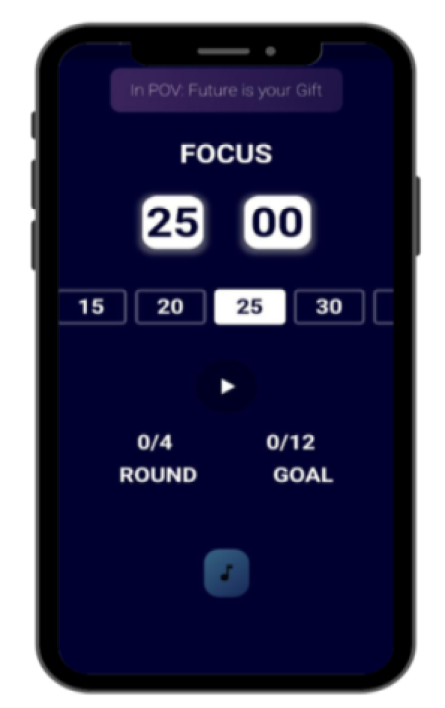
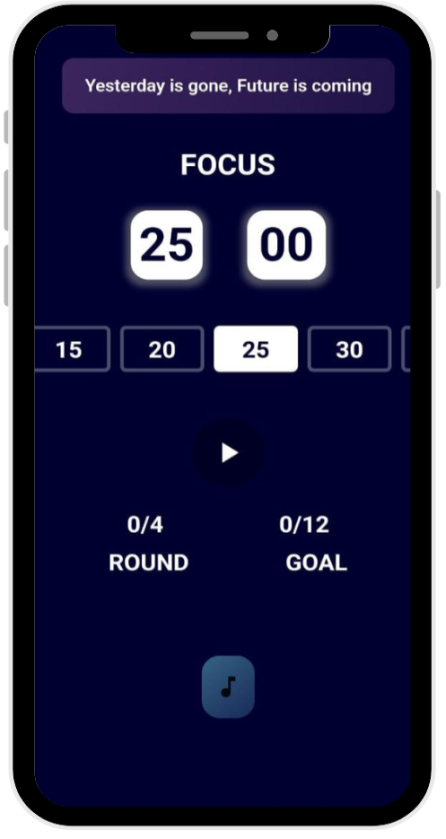
Img

diff --git a/index.html b/index.html
@@ -88,7 +88,7 @@
 
         <div class="container position-relative">
           <div class="row align-items-center py-8">
-            <div class="col-md-5 col-lg-6 order-md-1 text-center text-md-end"><img class="img-fluid" src="assets/img/illustrations/mobile.png" width="350" alt="" /></div>
+            <div class="col-md-5 col-lg-6 order-md-1 text-center text-md-end"><img class="img-fluid" src="assets/img/illustrations/App.png" width="350" alt="" /></div>
             <div class="col-md-7 col-lg-6 text-center text-md-start">
         
              <h1 class="mb-4 display-3 fw-bold lh-sm">Best app for tracking<br class="d-block d-lg-none d-xl-block" />your valuble time.</h1>
